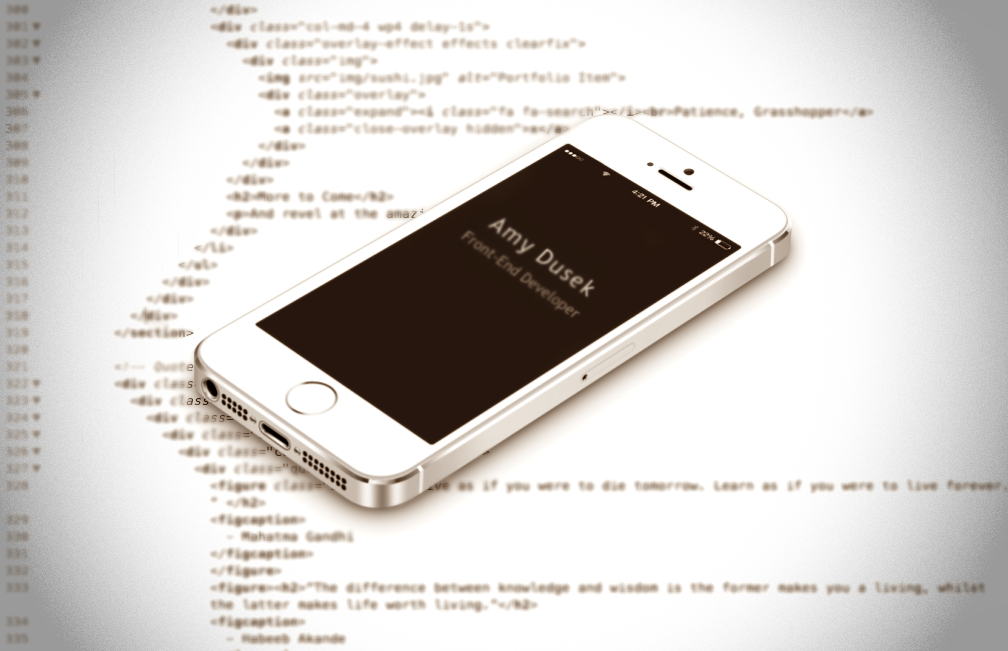
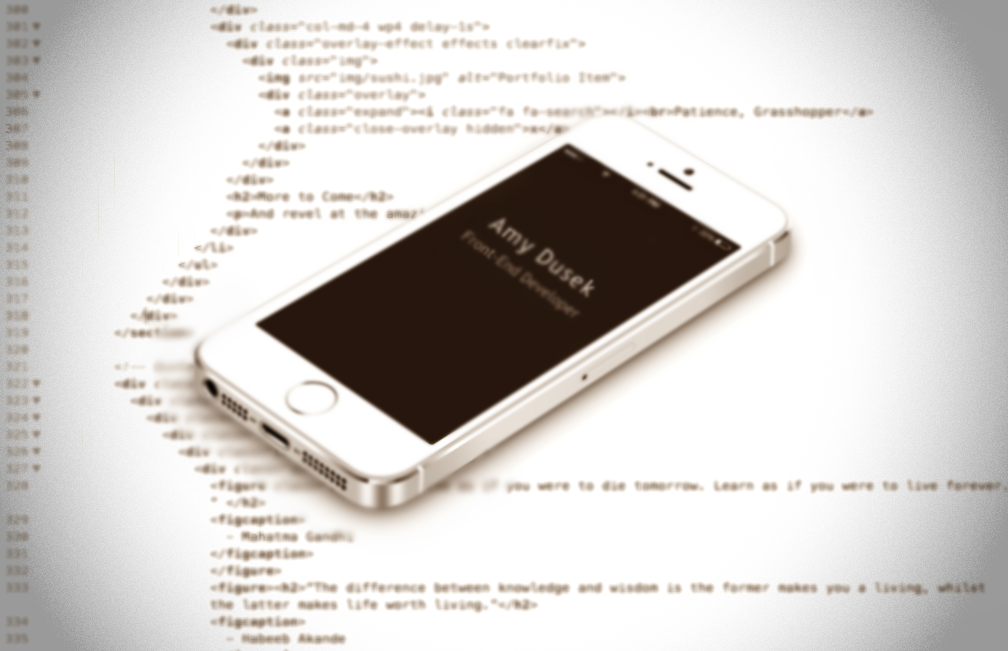
Fixed the JS- accidental letters insertion messed with the cycling. Added blur to iPhone

diff --git a/index.html b/index.html
@@ -325,21 +325,27 @@
               <div class="col-md-12">
                 <div class="col-md-10 col-md-offset-1">
                   <div class="quote-slideshow">
-                    <figure class="show"><h2>“Live as if you were to die tomorrow. Learn as if you were to live forever.” </h2>
-                    <figcaption>
+                    <figure class="show">
+                      <h2>“Live as if you were to die tomorrow. Learn as if you were to live forever.” 
+                      </h2>
+                      <figcaption>
                       - Mahatma Gandhi
-                    </figcaption>
+                      </figcaption>
                     </figure>
-                    <figure><h2>“The difference between knowledge and wisdom is the former makes you a living, whilst the latter makes life worth living.”</h2>
-                    <figcaption>
+                    <figure>
+                      <h2>“The difference between knowledge and wisdom is the former makes you a living, whilst the latter makes life worth living.”
+                      </h2>
+                      <figcaption>
                       ― Habeeb Akande
-                    </figcaption>
+                      </figcaption>
                     </figure>
-                    <figure><h2>"The capacity to learn is a gift; The ability to learn is a skill; The 
-                    willingness to learn is a choice.”</h2>
-                    <figcaption>
+                    <figure>
+                      <h2>"The capacity to learn is a gift; The ability to learn is a skill; The 
+                      willingness to learn is a choice.”
+                      </h2>
+                      <figcaption>
                       ― Brian Herbert
-                    </figcaption>
+                      </figcaption>
                     </figure>
                   </div>
                 </div>

diff --git a/js/scripts.js b/js/scripts.js
@@ -174,7 +174,7 @@ $(document).ready(function(){
 	var showCurrent = function(){
 		var itemToShow = Math.abs(counter%numItems);
 		$items.removeClass('show');
-		$items.eq(vaitemToShow).addClass('show');
+		$items.eq(itemToShow).addClass('show');
 	};
 	 
 	$('.quote-next').on('click', function(){
